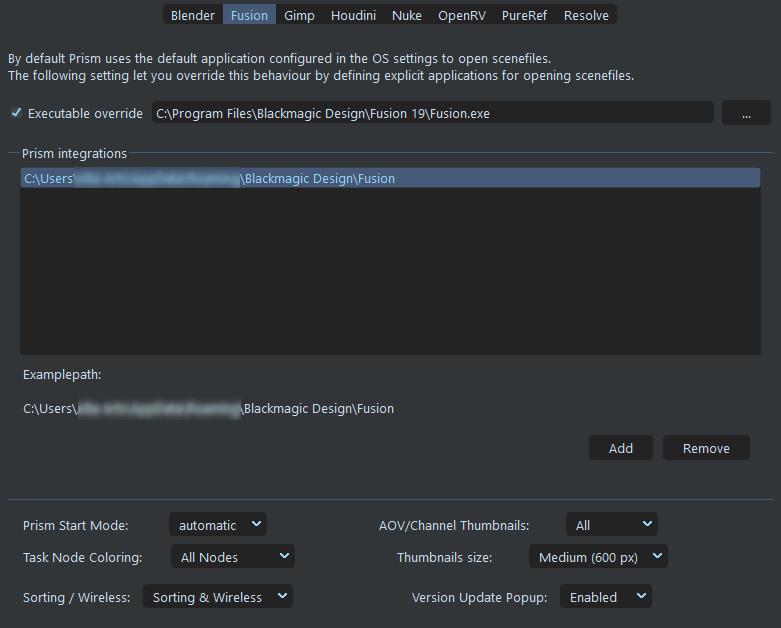
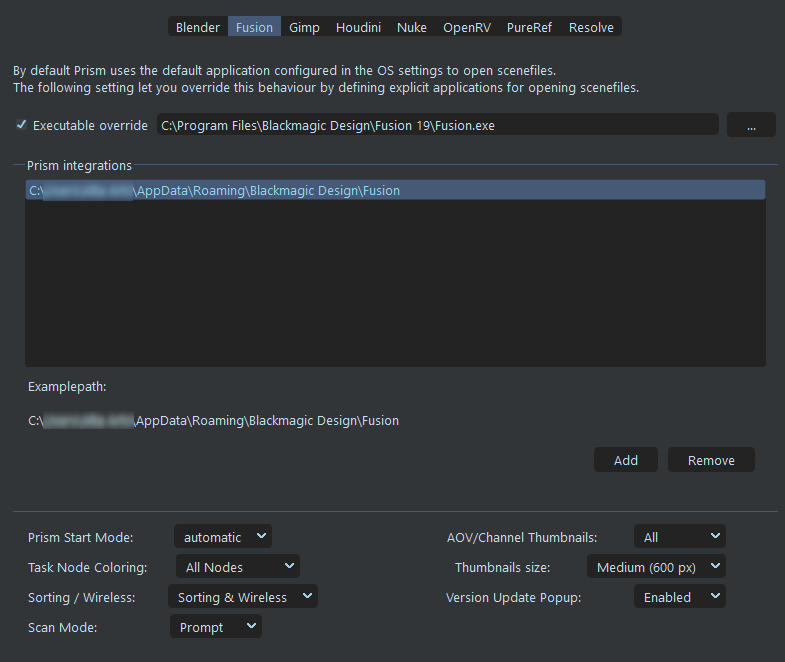
Updated Docs for Image Import State Auto-Creation #221

diff --git a/Docs/Importing_2d.md b/Docs/Importing_2d.md
@@ -123,9 +123,15 @@ This allows the user to quickly select all the Tools that are associated with th
 
 <br/>
 
-___
+## **Scanning for Orphaned Prism Loaders:**
 
-    *** Please note that manually adding a Loader into the Comp (or pasteing a Loader) will not have an Import State in the State Manager and not have the same functionality as above.  Though this is planned for the future.
+![Utility](DocsImages/ImageImport-AutoAddState.png)
+
+If enabled in the DCC settings, the plugin has the ability to automatically create new Image Import States for discovered Prism Loaders when opening the State Manager inside Fusion.  This works by scanning the Comp and searching for Prism Loaders (Loaders created by a Prism Import Import Image State) that are not associated with an existing Import Image State.  If any orphaned Loaders are discovered, a new Image Import State will be created based on the preferences in the DCC Settings (see [**Interface**](Interface.md)).  The Loader(s) will be updated with new data for the current project/shot/asset etc.
+
+This can be useful if a user needs to move a Import Image State from one Comp into another.
+
+    *** Please note for the plugin to find Loaders for auto-state creation, the Loader must have been created through the Prism Fusion plugin.  This is because the plugin adds specific metadata to the Loader Tool in the Comp that is used for various Prism functions.  Manually adding a Loader into the Comp (or pasteing a Loader) from outside the Prism plugin will not have an Import State in the State Manager and not have the same functionality as above.
 
 ___
 jump to:

diff --git a/Docs/Interface.md b/Docs/Interface.md
@@ -104,6 +104,19 @@ When in Manual mode, Prism will not start when Fusion is opened.  But Prism can 
 
 <br/>
 
+### **Scan Mode**
+
+![Update Popup](DocsImages/Setting_ScanMode.png)
+
+- If enabled,  each time the State Manager is shown (inside Fusion Studio) the plugin will scan the Comp for orphaned Prism Loaders and create new Image Import States (see [**Importing Images**](Importing_2d.md)).
+
+    - **Auto:**     New Import Image States will automatically be created from orphaned Prism Loaders.  This can slighly increase the time it takes to display the State Manager. 
+    - **Prompt:**    The use will be prompted to create new States from discovered orphaned Prism Loaders.  This can slighly increase the time it takes to display the State Manager. 
+    - **Disabled:**   The plugin will not scan the Comp for orphaned Loaders.  This can increase State Manager loading performance slightly.
+
+
+<br/>
+
 ## **Fusion AutoSave:**
 
 ![AutoSave Icon](DocsImages/AutoSave_Icon.png)
